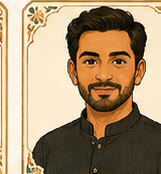
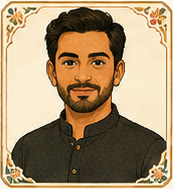
Rishtay fixes: mumani becomes mami, portraits for apa/baji/bhai-jan, all in-law crops re-cut from measured card edges (assets v202608111551)

diff --git a/data.js b/data.js
@@ -1163,7 +1163,7 @@ const READING_UNITS = [
           { ur: "تائی", tr: "tāyī", pic: "images/rishtay/tayi.jpg", en: "tāyā's wife", spell: "aunt by marriage, abbū's side" },
           { ur: "چچی", tr: "chachī", pic: "images/rishtay/chachi.jpg", en: "chachā's wife", spell: "aunt by marriage, abbū's side" },
           { ur: "پھوپھا", tr: "phūphā", pic: "images/rishtay/phupha.jpg", en: "phūphī's husband", spell: "uncle by marriage, abbū's side" },
-          { ur: "ممانی", tr: "mumānī", pic: "images/rishtay/mumani.jpg", en: "māmūṉ's wife", spell: "aunt by marriage, ammī's side" },
+          { ur: "مامی", tr: "māmī", pic: "images/rishtay/mami.jpg", en: "māmūṉ's wife", spell: "aunt by marriage, ammī's side" },
           { ur: "خالو", tr: "khālū", pic: "images/rishtay/khalu.jpg", en: "khālā's husband", spell: "uncle by marriage, ammī's side" },
         ],
       },
@@ -1186,9 +1186,9 @@ const READING_UNITS = [
         heading: "Jān, āpā, bājī · how you actually address them",
         note: "Kinship words double as names. Elders are never, ever called by their first name; younger siblings usually are. Add -jān (dear) to warm anything up: ammī-jān, bhāī-jān. This is the tehzeeb layer from the Virsa track, applied to your own dining table.",
         words: [
-          { ur: "آپا", tr: "āpā", en: "elder sister (as a name)", spell: "what you call her, not just what she is" },
-          { ur: "باجی", tr: "bājī", en: "elder sister (as a name)", spell: "same job as āpā, house by house" },
-          { ur: "بھائی جان", tr: "bhāī-jān", en: "dear elder brother", spell: "-jān turns any rishta affectionate" },
+          { ur: "آپا", tr: "āpā", pic: "images/rishtay/apa.jpg", en: "elder sister (as a name)", spell: "what you call her, not just what she is" },
+          { ur: "باجی", tr: "bājī", pic: "images/rishtay/baji.jpg", en: "elder sister (as a name)", spell: "same job as āpā, house by house" },
+          { ur: "بھائی جان", tr: "bhāī-jān", pic: "images/rishtay/bhaijan.jpg", en: "dear elder brother", spell: "-jān turns any rishta affectionate" },
         ],
       },
     ],

diff --git a/learn/rishtay-the-family-tree.html b/learn/rishtay-the-family-tree.html
@@ -46,10 +46,6 @@ ul.hub{list-style:none;padding:0}ul.hub li{margin:7px 0}ul.hub a{color:#0c5f66;f
 <h1>Rishtay · The Family Tree</h1><p class="sub">four aunts, four uncles, and why the words matter</p>
 <p>English has one word for aunt. Urdu has four, and which one you use announces exactly how she is related to you. This is the unit for everyone who has frozen at a shaadi trying to work out khālā or phūphī. The rule underneath is simple: abbū&#x27;s side and ammī&#x27;s side get different words, always. Learn the map once and you will never be corrected at a dawat again.</p>
 <a class="cta" href="https://myurdu.org/">Practice this lesson free, with audio, quizzes & games →</a>
-<h2>The phrases</h2>
-<div class="phrase"><button class="play" onclick="play('aapaa')">🔊 Listen</button><span class="u ur">آپا</span><b>āpā</b>: elder sister (as a name)<span class="n">what you call her, not just what she is</span></div>
-<div class="phrase"><button class="play" onclick="play('baajee')">🔊 Listen</button><span class="u ur">باجی</span><b>bājī</b>: elder sister (as a name)<span class="n">same job as āpā, house by house</span></div>
-<div class="phrase"><button class="play" onclick="play('bhaaee-jaan')">🔊 Listen</button><span class="u ur">بھائی جان</span><b>bhāī-jān</b>: dear elder brother<span class="n">-jān turns any rishta affectionate</span></div>
 <h2>Good to know</h2>
 <div class="fact">✨ Urdu has no everyday word for cousin. Formally your chachā's son is your chachā-zād bhāī ('chachā-born brother'), but in speech cousins are simply bhāī and behen, family, not a separate category. The English word 'cousin' gets borrowed when precision is needed.</div>
 <div class="fact">✨ The grandparent mnemonic: abbū's side both start with d (dādā, dādī), ammī's side both start with n (nānā, nānī). Two letters, and you will never mix them up again.</div>

diff --git a/index.html b/index.html
@@ -21,16 +21,16 @@
   <link rel="preconnect" href="https://fonts.googleapis.com" />
   <link rel="preconnect" href="https://fonts.gstatic.com" crossorigin />
   <link href="https://fonts.googleapis.com/css2?family=Noto+Naskh+Arabic&family=Noto+Nastaliq+Urdu:wght@400;700&family=Baloo+2:wght@500;600;700&display=swap" rel="stylesheet" />
-  <link rel="stylesheet" href="styles.css?v=202608111542" />
+  <link rel="stylesheet" href="styles.css?v=202608111551" />
 </head>
 <body>
     <div id="app"></div>
-  <script src="config.js?v=202608111542"></script>
-  <script src="data.js?v=202608111542"></script>
-  <script src="speech.js?v=202608111542"></script>
-  <script src="diagrams.js?v=202608111542"></script>
-  <script src="pakmap.js?v=202608111542"></script>
-  <script src="sync.js?v=202608111542"></script>
-  <script src="app.js?v=202608111542"></script>
+  <script src="config.js?v=202608111551"></script>
+  <script src="data.js?v=202608111551"></script>
+  <script src="speech.js?v=202608111551"></script>
+  <script src="diagrams.js?v=202608111551"></script>
+  <script src="pakmap.js?v=202608111551"></script>
+  <script src="sync.js?v=202608111551"></script>
+  <script src="app.js?v=202608111551"></script>
 </body>
 </html>

diff --git a/sw.js b/sw.js
@@ -3,7 +3,7 @@
 // online), cache-first for version-stamped assets and audio clips
 // (immutable per URL). Never touches the API or other origins,
 // except Google Fonts (cache-first).
-const CACHE = "myurdu-v202608111542"; // stamped by tools/deploy.sh
+const CACHE = "myurdu-v202608111551"; // stamped by tools/deploy.sh
 
 self.addEventListener("install", () => self.skipWaiting());
 
